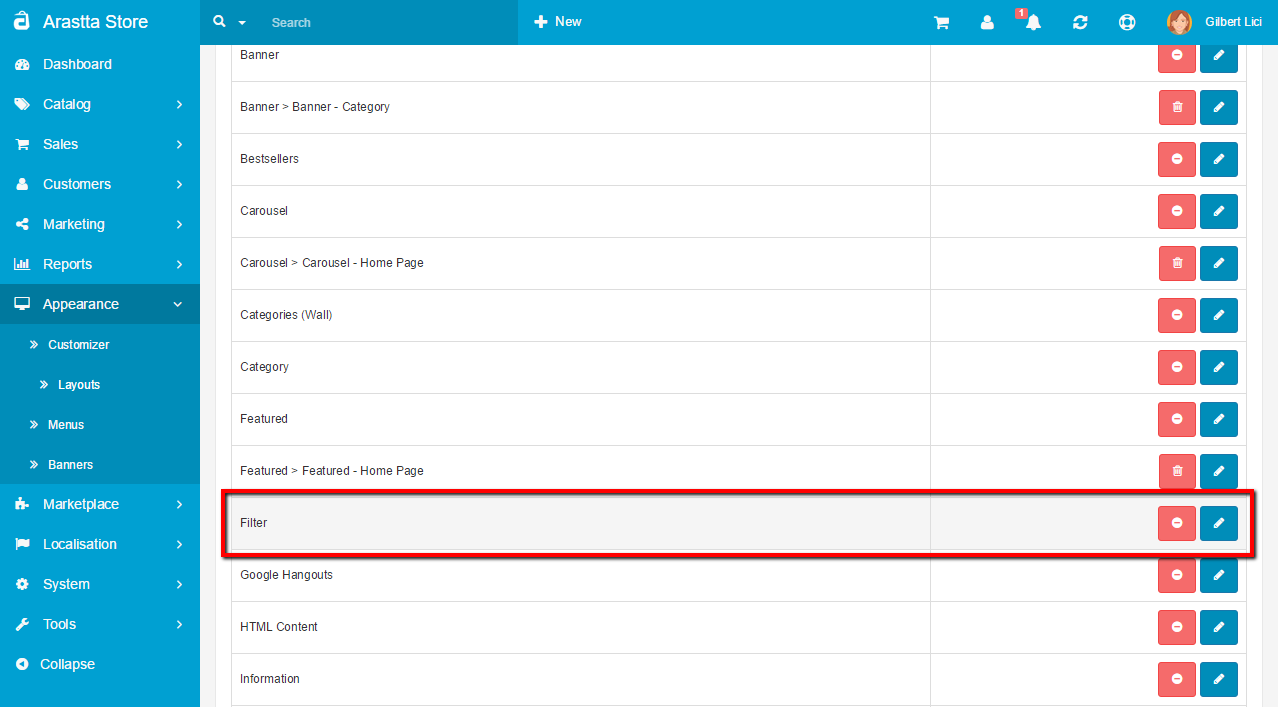
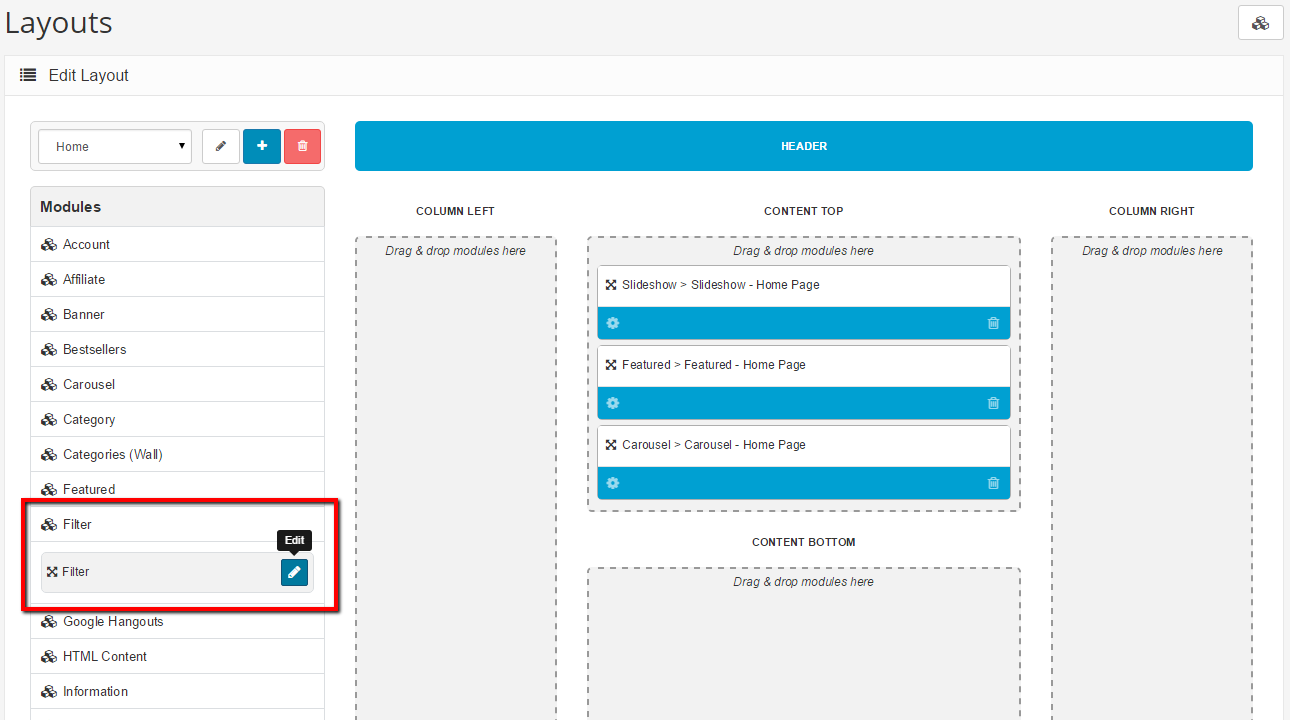
Filters update

diff --git a/user-manual/catalog/filters.md b/user-manual/catalog/filters.md
@@ -27,7 +27,7 @@ How to use filters?
 3.  **Assign Filters to Products**. Go to "**Arastta => Catalog => Products**" and click on **Edit** on your product line. Then go to **Links** tab and write your filter name on "Filters:" textbox (don't use group name but filter name). Filters will appear on screen with autocomplete, please select your filter from the list then save (you can add many filters for each product with rewriting values).
 ![filters 3](_images/filters-3.png)
 
-4.  **Install the module**. Go to "**Arastta => Appearance => Layouts => Modules**" and activate the Filters module by clicking on the Install link.
+4.  **Enable the module**. Go to "**Arastta => Appearance => Layouts**" and the Edit button will appear when you come over the Filters module. Click on Edit button and set the status as enabled.
 ![filters 4](_images/filters-4.png)
 
 5.  **Assign Filters module to Layouts**. Go to "**Arastta => Appearance => Layouts**". Select "Category" or "Product" as layout page and set whatever position and sort order you would like.
